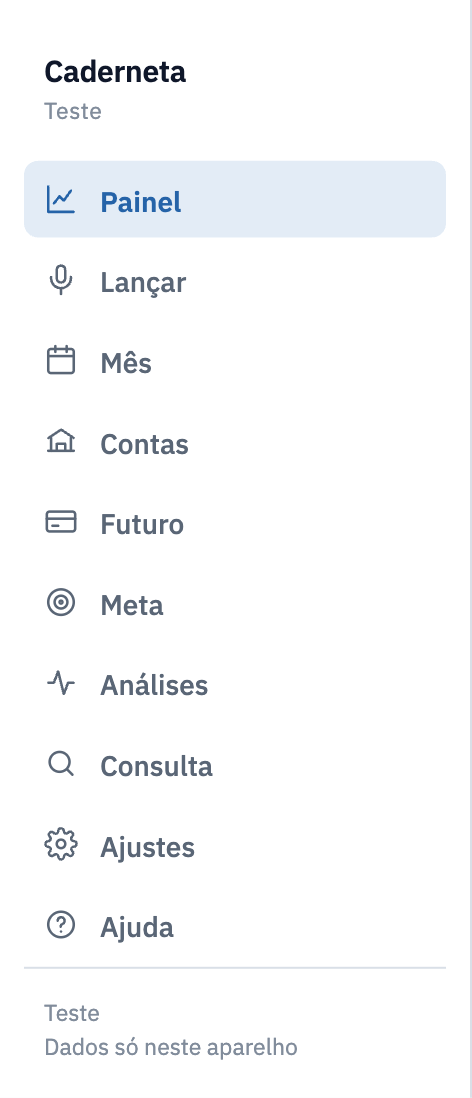
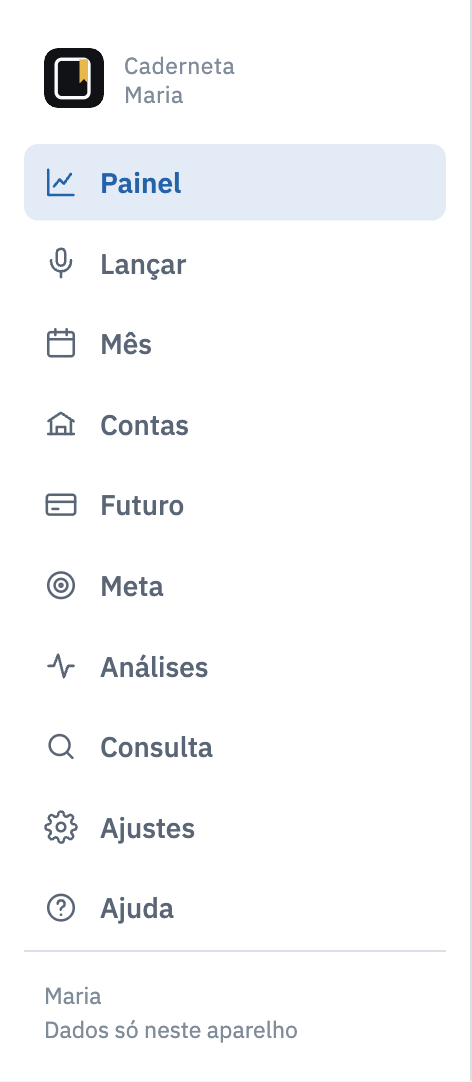
Marca no menu do app e ícones com versão na URL
O dono pediu a marca também dentro do app, antes do nome: MARCA(tamanho)
devolve o SVG e a barra lateral (30 px) e o topo do celular (24 px)
passam a mostrá-la.

E os ícones ganharam ?v=54 na URL. Os arquivos já eram os novos desde a
v53 — conferido contra o que está publicado —, mas o navegador guarda
favicon por muito tempo e o app instalado grava o ícone na instalação. A
versão na URL faz o navegador buscar de novo; no iPhone, ainda é preciso
remover e adicionar à tela de início outra vez.

A captura do menu lateral no manual foi refeita, e o quadro "Como
reconhecer o ícone" agora diz que ele também aparece no alto do menu.

diff --git a/index.html b/index.html
@@ -6,10 +6,10 @@
 <meta name="description" content="Controle de gastos por fala. Cada pessoa com sua conta e seus dados no próprio Google Drive.">
 <meta name="theme-color" content="#F7F8FA" media="(prefers-color-scheme: light)">
 <meta name="theme-color" content="#0D1117" media="(prefers-color-scheme: dark)">
-<link rel="manifest" href="manifest.webmanifest">
-<link rel="icon" type="image/png" sizes="32x32" href="icons/favicon-32.png">
-<link rel="icon" type="image/png" sizes="192x192" href="icons/icon-192.png">
-<link rel="apple-touch-icon" href="icons/apple-touch-icon.png">
+<link rel="manifest" href="manifest.webmanifest?v=54">
+<link rel="icon" type="image/png" sizes="32x32" href="icons/favicon-32.png?v=54">
+<link rel="icon" type="image/png" sizes="192x192" href="icons/icon-192.png?v=54">
+<link rel="apple-touch-icon" href="icons/apple-touch-icon.png?v=54">
 <meta name="mobile-web-app-capable" content="yes">
 <meta name="apple-mobile-web-app-capable" content="yes">
 <meta name="apple-mobile-web-app-title" content="Caderneta">
@@ -147,7 +147,8 @@ main{padding:0 16px calc(76px + env(safe-area-inset-bottom,0px));max-width:680px
   padding-top:env(safe-area-inset-top,0px)}
 .top-in{display:flex;align-items:center;gap:10px;height:54px;max-width:680px;margin:0 auto;padding:0 16px}
 .brand{font-size:16px;font-weight:600;letter-spacing:-.01em;flex:1;min-width:0;white-space:nowrap;
-  overflow:hidden;text-overflow:ellipsis}
+  overflow:hidden;text-overflow:ellipsis;display:flex;align-items:center;gap:8px}
+.brand .marca{border-radius:6px;flex:none}
 .mnav{display:flex;align-items:center;gap:2px}
 .mnav button,.icon-btn{background:var(--surface);border:1px solid var(--line);border-radius:var(--r-sm);
   width:30px;height:30px;display:grid;place-items:center;cursor:pointer;color:var(--ink-2)}
@@ -159,8 +160,12 @@ main{padding:0 16px calc(76px + env(safe-area-inset-bottom,0px));max-width:680px
   .app{display:grid;grid-template-columns:236px minmax(0,1fr);align-items:start}
   .side{display:flex;flex-direction:column;gap:2px;position:sticky;top:0;height:100vh;padding:18px 12px;
     background:var(--surface);border-right:1px solid var(--line);overflow-y:auto}
-  .side-brand{font-size:15px;font-weight:600;letter-spacing:-.01em;padding:6px 10px 16px;color:var(--ink)}
-  .side-brand span{display:block;font-size:11.5px;font-weight:400;color:var(--ink-3);letter-spacing:.02em}
+  .side-brand{font-size:15px;font-weight:600;letter-spacing:-.01em;padding:6px 10px 16px;color:var(--ink);
+    display:flex;align-items:center;gap:10px}
+  .side-brand .marca{border-radius:7px;flex:none}
+  .side-brand .side-nome{min-width:0;line-height:1.25}
+  .side-brand span{display:block;font-size:11.5px;font-weight:400;color:var(--ink-3);letter-spacing:.02em;
+    overflow:hidden;text-overflow:ellipsis;white-space:nowrap}
   .side a{display:flex;align-items:center;gap:11px;padding:9px 10px;border-radius:var(--r-sm);
     color:var(--ink-2);text-decoration:none;font-size:14px;font-weight:500;cursor:pointer;border:0;
     background:none;width:100%;text-align:left}
@@ -440,7 +445,7 @@ button.chip:hover{border-color:var(--accent);color:var(--accent)}
 <nav class="side" id="side"></nav>
 <div>
 <header class="top"><div class="top-in">
-  <div class="brand">Caderneta</div>
+  <div class="brand" id="brand">Caderneta</div>
   <div class="top-title" id="topTitle">Painel</div>
   <div class="mnav">
     <button id="mPrev" aria-label="Mes anterior"><svg viewBox="0 0 24 24" width="15" height="15" fill="none" stroke="currentColor" stroke-width="2.2" stroke-linecap="round" stroke-linejoin="round"><path d="M15 18l-6-6 6-6"/></svg></button>
@@ -778,7 +783,7 @@ const GICON='<svg viewBox="0 0 48 48" aria-hidden="true"><path fill="#EA4335" d=
 function showGate(){
   let g=$("#gate"); if(!g){ g=document.createElement("div"); g.id="gate"; document.body.appendChild(g); }
   const locais=knownUsers().filter(u=>u.kind==="local");
-  g.innerHTML='<div class="gate-in"><img src="icons/icon-192.png" alt="" width="64" height="64" style="border-radius:15px">'+
+  g.innerHTML='<div class="gate-in"><img src="icons/icon-192.png?v=54" alt="" width="64" height="64" style="border-radius:15px">'+
     '<h1>Caderneta</h1><p>Controle de gastos por fala. Cada pessoa entra com a própria conta e só enxerga os próprios dados.</p>'+
     (CFG.googleClientId
       ? '<button class="btn gbtn" id="gIn" disabled>'+GICON+'<span>Entrar com Google</span></button>'+
@@ -1696,10 +1701,18 @@ const NAV=[{id:"painel",n:"Painel"},{id:"lancar",n:"Lançar"},{id:"mes",n:"Mês"
            {id:"ajuda",n:"Ajuda"}];
 const TABS=["painel","lancar","mes","contas"];
 
+/* a marca da Caderneta, em SVG, para a barra lateral e o topo do celular.
+   Mesmo desenho do ícone: capa em contorno sobre preto, fita marcadora dourada. */
+const MARCA=t=>'<svg class="marca" width="'+t+'" height="'+t+'" viewBox="0 0 64 64" aria-hidden="true" focusable="false">'+
+  '<rect width="64" height="64" rx="14" fill="#101215"/>'+
+  '<rect x="13" y="12" width="35" height="41" rx="6" fill="none" stroke="#FBFCFD" stroke-width="3.6"/>'+
+  '<path d="M38 12h9v26l-4.5-5-4.5 5z" fill="#E8B84B"/></svg>';
+
 function renderNav(){
-  $("#side").innerHTML='<div class="side-brand">Caderneta<span>'+esc(S.user?S.user.name:"")+'</span></div>'+
+  $("#side").innerHTML='<div class="side-brand">'+MARCA(30)+'<span class="side-nome">Caderneta<span>'+esc(S.user?S.user.name:"")+'</span></span></div>'+
     NAV.map(x=>'<a role="button" tabindex="0" data-go="'+x.id+'" aria-current="'+(S.view===x.id)+'">'+svgIc(x.id)+esc(x.n)+'</a>').join("")+
     '<div class="side-foot" id="sideFoot"></div>';
+  const bm=$("#brand"); if(bm&&!bm.querySelector("svg")) bm.innerHTML=MARCA(24)+'<span>Caderneta</span>';
   $("#tabsIn").innerHTML=TABS.map(id=>{ const x=NAV.find(y=>y.id===id);
     return '<button class="tab" role="tab" data-go="'+id+'" aria-selected="'+(S.view===id)+'">'+svgIc(id)+esc(x.n)+'</button>'; }).join("")+
     '<button class="tab" role="tab" data-more="1" aria-selected="'+(["futuro","meta","analises","consulta","ajustes","ajuda"].indexOf(S.view)>=0)+'">'+svgIc("mais")+'Mais</button>';
@@ -2783,7 +2796,7 @@ function renderConsulta(){
 const AJUDA=[
  /* começar */
   {g:"Começar",t:"Qual é o ícone do app no celular?",
-  c:"Uma caderneta de capa preta com a fita marcadora dourada, e o nome Caderneta embaixo — é o mesmo desenho da capa do manual. Na aba do navegador ele aparece pequenininho, do lado do título da página.",a:"comecar"},
+  c:"Uma caderneta de capa preta com a fita marcadora dourada, e o nome Caderneta embaixo — é o mesmo desenho da capa do manual. Na aba do navegador ele aparece pequenininho, do lado do título da página, e dentro do app ele fica no alto do menu, antes do nome.",a:"comecar"},
 {g:"Começar",t:"Como abro e instalo o app?",
   c:"O endereço é rgbittencourt.github.io/caderneta. No iPhone: Safari → Compartilhar → Adicionar à Tela de Início. No Android: Chrome → Instalar app. No computador: ícone de instalar na barra de endereço.",a:"comecar"},
  {g:"Começar",t:"Meus dados ficam onde? Alguém mais vê?",

diff --git a/manual.html b/manual.html
@@ -96,11 +96,11 @@ td.valor{font-family:var(--f-m);text-align:right;white-space:nowrap}
 <div class="pagina">
 
 <header class="capa">
-  <div class="marca"><img src="icons/icon-192.png" alt=""><h1>Caderneta</h1></div>
+  <div class="marca"><img src="icons/icon-192.png?v=54" alt=""><h1>Caderneta</h1></div>
   <div class="sub">Manual de uso — controle de gastos por fala, extrato e fatura</div>
   <div class="meta">
     Endereço do app: https://rgbittencourt.github.io/caderneta/<br>
-    Setembro de 2026 · aplica-se à versão caderneta-v53 em diante
+    Setembro de 2026 · aplica-se à versão caderneta-v54 em diante
   </div>
 </header>
 
@@ -152,7 +152,7 @@ td.valor{font-family:var(--f-m);text-align:right;white-space:nowrap}
 
 <div class="dica">
   <b>Como reconhecer o ícone.</b>
-  Depois de instalado, o app aparece como uma <b>caderneta de capa preta com a fita marcadora dourada</b>, com o nome <i>Caderneta</i> embaixo — o mesmo desenho da capa deste manual. É esse quadradinho preto que você procura na tela de início do celular e na aba do navegador.
+  Depois de instalado, o app aparece como uma <b>caderneta de capa preta com a fita marcadora dourada</b>, com o nome <i>Caderneta</i> embaixo — o mesmo desenho da capa deste manual. É esse quadradinho preto que você procura na tela de início do celular e na aba do navegador — e ele aparece também dentro do app, ao lado do nome, no alto do menu.
 </div>
 
 <h3>Entrar</h3>

diff --git a/sw.js b/sw.js
@@ -1,11 +1,11 @@
 /* Caderneta — service worker: guarda o app no aparelho para abrir sem internet.
    Mude VERSAO a cada publicação para os aparelhos pegarem a versão nova. */
-const VERSAO = "caderneta-v53";
+const VERSAO = "caderneta-v54";
 const FONTES = "caderneta-fontes";
 const LIBS = "caderneta-libs-2";
 const APP = ["./", "./index.html", "./manifest.webmanifest", "./config.js",
-  "./icons/icon-192.png", "./icons/icon-512.png", "./icons/icon-512-maskable.png",
-  "./icons/favicon-32.png", "./icons/apple-touch-icon.png", "./leitor.js"];
+  "./icons/icon-192.png?v=54", "./icons/icon-512.png?v=54", "./icons/icon-512-maskable.png?v=54",
+  "./icons/favicon-32.png?v=54", "./icons/apple-touch-icon.png?v=54", "./leitor.js"];
 
 self.addEventListener("install", e => {
   e.waitUntil(caches.open(VERSAO).then(c => c.addAll(APP)));

diff --git a/privacidade.html b/privacidade.html
@@ -5,7 +5,7 @@
 <meta name="viewport" content="width=device-width, initial-scale=1">
 <title>Privacidade · Caderneta</title>
 <meta name="description" content="Como a Caderneta trata os seus dados: ficam no seu aparelho e no seu próprio Google Drive. Não há servidor e ninguém mais tem acesso.">
-<link rel="icon" type="image/png" sizes="32x32" href="icons/favicon-32.png">
+<link rel="icon" type="image/png" sizes="32x32" href="icons/favicon-32.png?v=54">
 <link rel="stylesheet" href="https://fonts.googleapis.com/css2?family=IBM+Plex+Sans:wght@400;500;600&display=swap">
 <style>
 :root{--paper:#F7F8FA;--surface:#FFFFFF;--line:#D9DFE7;--ink:#0F172A;--ink-2:#5A6676;--accent:#2563A8;--accent-soft:#E3ECF6}

diff --git a/termos.html b/termos.html
@@ -5,7 +5,7 @@
 <meta name="viewport" content="width=device-width, initial-scale=1">
 <title>Termos de uso · Caderneta</title>
 <meta name="description" content="Termos de uso da Caderneta, app gratuito de controle de gastos para uso pessoal e familiar.">
-<link rel="icon" type="image/png" sizes="32x32" href="icons/favicon-32.png">
+<link rel="icon" type="image/png" sizes="32x32" href="icons/favicon-32.png?v=54">
 <link rel="stylesheet" href="https://fonts.googleapis.com/css2?family=IBM+Plex+Sans:wght@400;500;600&display=swap">
 <style>
 :root{--paper:#F7F8FA;--surface:#FFFFFF;--line:#D9DFE7;--ink:#0F172A;--ink-2:#5A6676;--accent:#2563A8;--accent-soft:#E3ECF6}

diff --git a/CLAUDE.md b/CLAUDE.md
@@ -177,7 +177,7 @@ Cada achado tem gravidade (crítico, atenção, informação, boa notícia), um 
 - Celular: abas embaixo; Futuro, Meta, Análises e Ajustes ficam em *Mais*. A partir de 960px: menu lateral.
 - **Datas do cartão vêm da fatura:** o leitor guarda `fechada`, `vencimento` (a primeira data cheia do resumo), `proxFechamento` ("Fechamento da próxima fatura") e `melhorCompra` ("Melhor data de compra"). Ao importar, a fatura mais recente já lida (`c.fatLida`) atualiza `closing`, `due`, `proxFecha` e `melhorDia` do cartão — o BB muda o dia a cada mês (fechou 06/01 e 04/02 nas faturas reais do dono). `prazoCartao` usa `proxFecha` enquanto ela não passa; depois, estima pelo dia.
 - ***Guardei um dinheiro* tira o dinheiro da conta** (27/09/2026, pergunta do dono: "onde informo que guardei X… e retirar da conta corrente, para não ser gasto depois o que havia separado?"): `openDeposit` agora tem a caixa *Tirar o dinheiro da conta agora* (ligada por padrão com duas ou mais contas) e os selects *Sai de* / *Fica em* (padrão: `type:"corrente"` → `type:"poupanca"`). Ao salvar, cria um lançamento `k:"t"` e guarda `dep.tx` + `dep.ym`; editar refaz a transferência, desmarcar ou excluir a remove (`removeTx`). Transferência não é gasto: não entra no teto, no 50-30-20 nem no histórico do plano — só muda o saldo de lugar.
-- **Marca e ícone** (27/09/2026, escolha do dono depois de cinco levas de rascunho — o nome **Caderneta fica**, só o ícone mudou): capa em **contorno branco sobre preto** com **fita marcadora dourada**. Em grade de 64: fundo `#101215`; retângulo `x13 y12 w35 h41 rx6`, sem preenchimento, traço `#FBFCFD` de 3,4 (3,6 em 192 e 180; 5,2 em 32, senão o traço some); fita `M38 12h9v26l-4,5-5-4,5 5z` em `#E8B84B`. Arquivos em `icons/`: 512, 512-maskable (desenho a 78%, dentro da área segura), 192, apple-touch 180 e favicon 32 — todos gerados por canvas a partir desse SVG. O azul `#2563A8` da interface **não muda**: a marca é só o ícone. **Não** ponha o nome dentro do ícone (o sistema já escreve embaixo) nem degradê/sombra (morre em 28 px).
+- **Marca e ícone** (27/09/2026, escolha do dono depois de cinco levas de rascunho — o nome **Caderneta fica**, só o ícone mudou): capa em **contorno branco sobre preto** com **fita marcadora dourada**. Em grade de 64: fundo `#101215`; retângulo `x13 y12 w35 h41 rx6`, sem preenchimento, traço `#FBFCFD` de 3,4 (3,6 em 192 e 180; 5,2 em 32, senão o traço some); fita `M38 12h9v26l-4,5-5-4,5 5z` em `#E8B84B`. Arquivos em `icons/`: 512, 512-maskable (desenho a 78%, dentro da área segura), 192, apple-touch 180 e favicon 32 — todos gerados por canvas a partir desse SVG. O azul `#2563A8` da interface **não muda**. A marca também aparece **dentro do app** (pedido do dono na v54): `MARCA(tamanho)` devolve o SVG e `renderNav` o coloca antes do nome na barra lateral (30 px) e no topo do celular (24 px). **Não** ponha o nome dentro do ícone (o sistema já escreve embaixo) nem degradê/sombra (morre em 28 px).
 - **Dicas ao parar o mouse (3s)** (27/09/2026, pedido do dono): `DICAS` é um dicionário texto→explicação; `chaveDica` normaliza e `achaDica` casa **pelo começo** do rótulo (os títulos trazem o mês junto: "Disponível até o fim de set 2026"). `bindDicas()` roda depois de cada `render()` e de cada `sheet()`, marcando `.tile-l,.hero-l,.ch-t,.sec-t,.set-f label,.day-t,.badge,.linkrow .t,.seg,.chip,button.btn,button.mini,.row-d` com `data-dica`. Um ouvinte único na página mostra `#dica` após 3s de `mouseover` (0,6s no toque longo). Para cobrir um rótulo novo, basta acrescentar a frase no dicionário.
 - **Leitura dos gráficos** (27/09/2026, mesmo pedido): `leituraSerie`/`resumoSerie` (séries no tempo), `leituraFatia`/`resumoFatias` (categorias e formas de pagamento), `compromissoLido`/`resumoCompromisso` (empilhado do comprometido). Cada ponto leva `data-leitura` + `data-lt` (via `attrLeitura`), `bindTips` abre `openLeitura` no clique e a bolha avisa "toque para entender este dado". O parágrafo *O que este gráfico diz* vai logo abaixo de cada gráfico. Gráficos cobertos: categorias (Painel e Mês), últimos 6 meses, ritmo do mês (dia a dia), comprometido (Painel e Futuro), guardado por mês, rosca do 50-30-20, formas de pagamento e parcelas por mês.
 - **Centavos falados** (27/09/2026, bug visto ao refazer as telas do manual): "trinta e nove e noventa" virava R$ 129,00 porque `readWords` somava tudo o que vinha depois de "e". Agora a composição só desce (`NW[nx] < last`), e o que vier depois, maior ou igual, é lido como centavos quando for ≥ 10 — "cento e vinte e sete reais e noventa" = 127,90, "duzentos e cinquenta e três reais e quinze centavos" = 253,15.
@@ -226,7 +226,7 @@ Primeira publicação num computador novo: o dono autoriza no navegador (Git Cre
 
 ## Situação e próximos passos
 
-- **Publicado:** `caderneta-v53` (27/09/2026). O que existe está descrito acima; os commits contam a ordem.
+- **Publicado:** `caderneta-v54` (27/09/2026). O que existe está descrito acima; os commits contam a ordem.
 - **O que o dono está fazendo:** carregando os extratos da conta corrente e as faturas dos cartões (Visa, Mastercard, Elo) de janeiro a setembro de 2026, todos em PDF, no MacBook Air, depois de usar *Recomeçar do zero*. O passo a passo está no README, em *Importar meses anteriores*.
 - **Documentos reais (15/09/2026):** o dono mandou, por iniciativa própria, o extrato da conta corrente do BB de jan/2026 e uma fatura Ourocard Mastercard. Até a v14 o extrato vinha com descrições erradas (lote e documento no lugar do nome) e o Rende Fácil contado como gasto e entrada; a fatura lia taxas de juros como compras. Os formatos estão descritos acima e foram conferidos com os dois PDFs, que **não** estão no repositório. A fatura recebida só tinha anuidade e desconto; compras parceladas no formato do BB foram testadas com linhas simuladas. Se outro documento falhar, peça a *amostra sem dados*.
 - **Consignados:** ele tem dois — um pagando a 4ª de 12 em setembro de 2026, outro com a 1ª parcela em 01/10/2026. Depois do Recomeçar, precisam ser cadastrados de novo, com a data real do empréstimo e 0 já descontadas, antes de importar janeiro.
